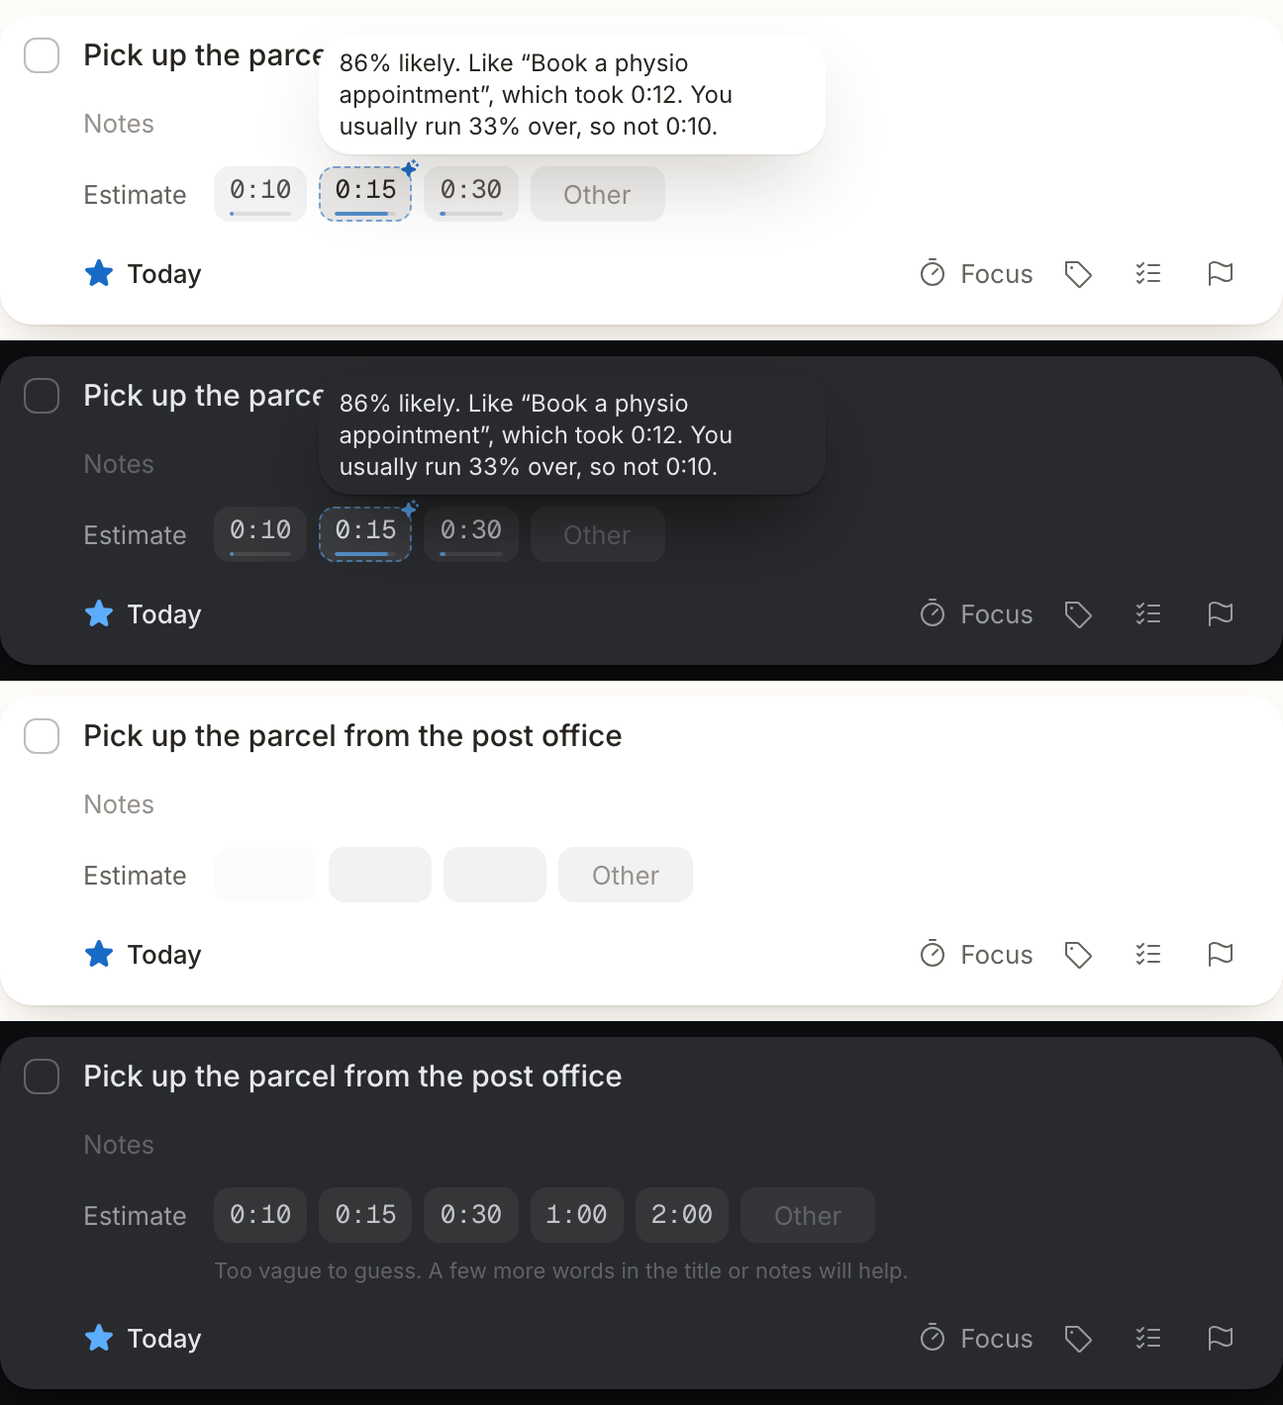
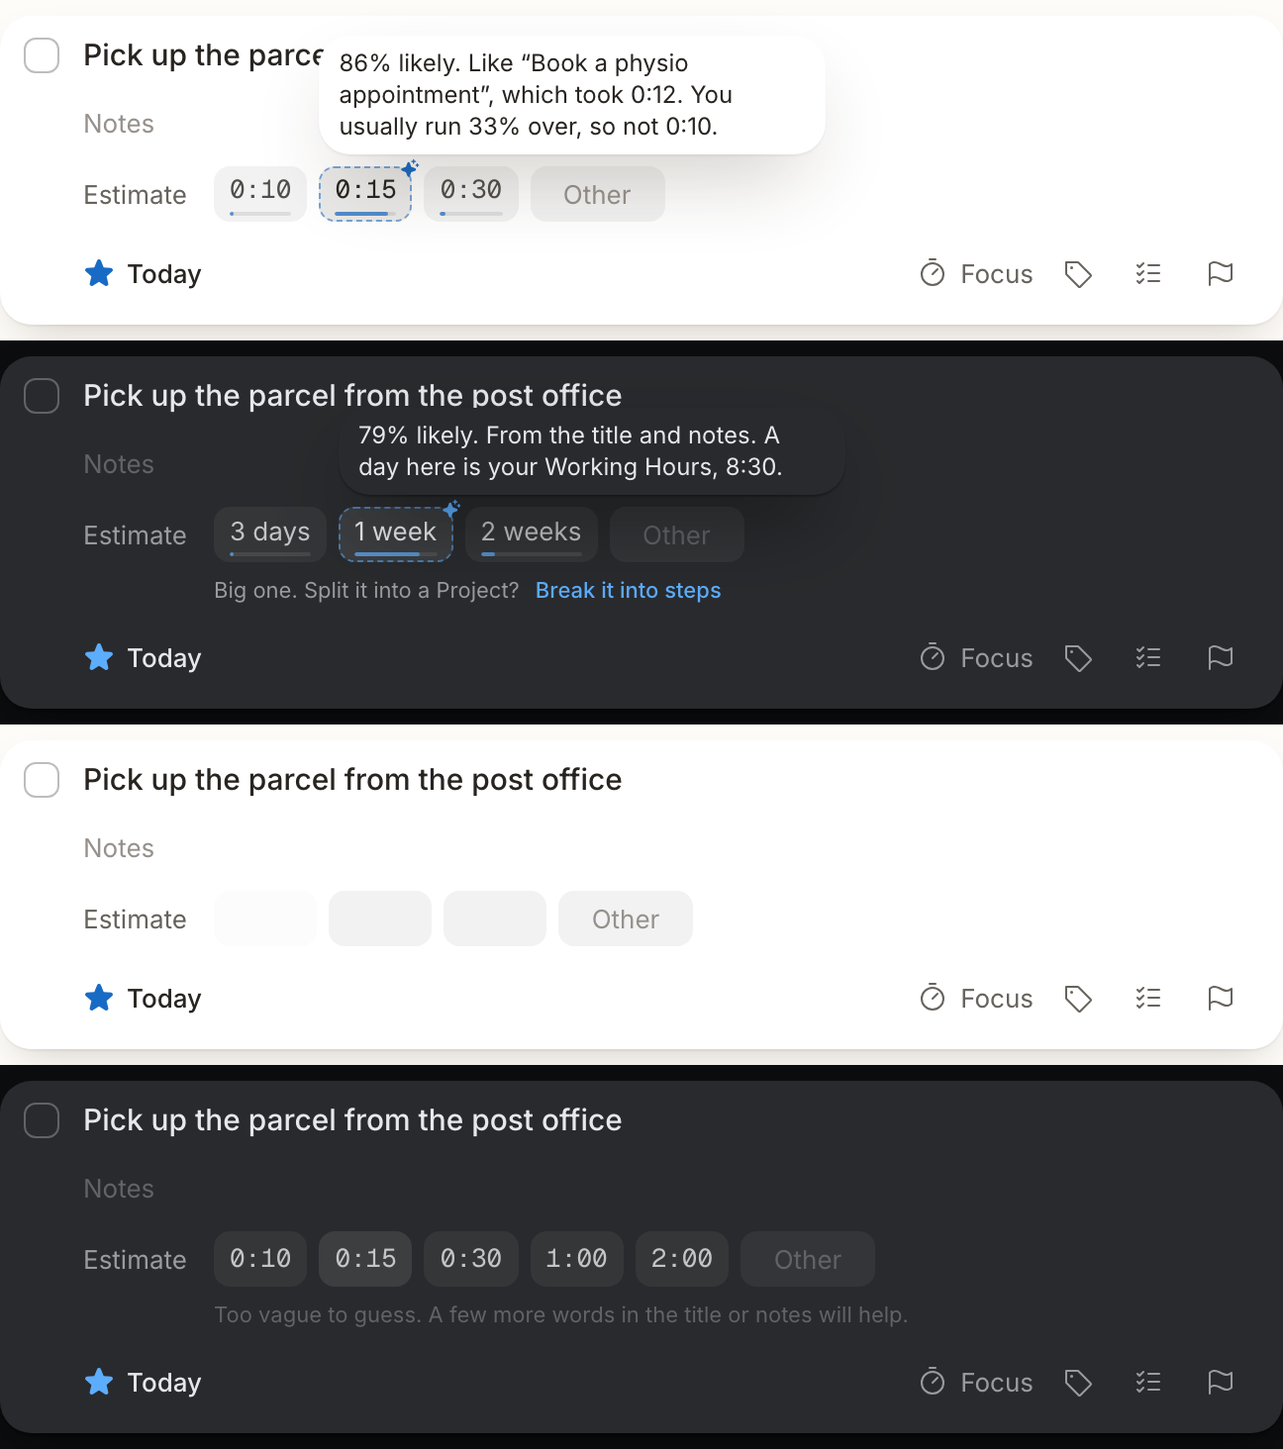
Smart Estimates: big guesses in days and weeks of Working Hours, a Break it into steps hint, vague only when unsure, and a 4 hour cap on blocks dropped from big Estimates (#48, #53)

diff --git a/apps/web/src/components/lifeos/estimate-field.tsx b/apps/web/src/components/lifeos/estimate-field.tsx
@@ -14,12 +14,20 @@ export type EstimateGuess = { minutes: number; probability: number };
 
 export type SmartEstimate =
   | { kind: "thinking" }
-  | { kind: "guesses"; guesses: readonly EstimateGuess[]; likely: number; reason: string }
+  | { kind: "guesses"; guesses: readonly EstimateGuess[]; likely: number; reason: string; dayMinutes: number }
   | { kind: "note"; note: string };
 
 const percent = new Intl.NumberFormat("en-AU", { style: "percent", maximumFractionDigits: 0 });
 
 const GHOSTS = [0, 160, 320] as const;
+
+const workingDays = (minutes: number, dayMinutes: number) =>
+  minutes >= dayMinutes && minutes % dayMinutes === 0 ? minutes / dayMinutes : undefined;
+
+const plainUnits = (days: number) => {
+  if (days % 5 === 0) return days === 5 ? "1 week" : `${days / 5} weeks`;
+  return days === 1 ? "1 day" : `${days} days`;
+};
 
 const CHIP =
   "relative h-7 rounded-md px-2 font-mono text-small transition-[background-color,color,scale,opacity] duration-(--dur-press) ease-out before:absolute before:-inset-x-0.5 before:-inset-y-2 active:scale-[0.94]";
@@ -65,11 +73,13 @@ export const EstimateField = ({
   minutes,
   smart,
   onChange,
+  onSteps,
   className,
 }: {
   minutes: number | undefined;
   smart?: SmartEstimate | undefined;
   onChange: (minutes: number | null) => void;
+  onSteps?: (() => void) | undefined;
   className?: string;
 }) => {
   const [draft, setDraft] = useState<string | null>(null);
@@ -77,6 +87,7 @@ export const EstimateField = ({
   const chips: readonly { minutes: number; probability: number | undefined }[] = chipsFor(smart);
   const custom = minutes !== undefined && !chips.some((chip) => chip.minutes === minutes);
   const guessed = smart?.kind === "guesses" ? smart : undefined;
+  const big = guessed !== undefined && guessed.likely >= guessed.dayMinutes;
 
   const commit = () => {
     if (draft === null) return;
@@ -104,12 +115,15 @@ export const EstimateField = ({
         const selected = minutes === chip;
         const likely = guessed !== undefined && guessed.likely === chip;
         const odds = probability === undefined ? undefined : percent.format(probability);
+        const days = guessed ? workingDays(chip, guessed.dayMinutes) : undefined;
+        const label = days === undefined ? formatMinutes(chip) : plainUnits(days);
+        const dayNote = days === undefined || !guessed ? "" : ` A day here is your Working Hours, ${formatMinutes(guessed.dayMinutes)}.`;
         const button = (
           <button
             key={chip}
             type="button"
             aria-pressed={selected}
-            aria-label={odds ? `${formatMinutes(chip)}, ${odds} likely${likely ? ", the best guess" : ""}` : undefined}
+            aria-label={odds ? `${label}, ${odds} likely${likely ? ", the best guess" : ""}` : undefined}
             onClick={(event) => {
               if (event.detail > 0) haptic("toggle");
               setDraft(null);
@@ -121,15 +135,16 @@ export const EstimateField = ({
               selected ? "bg-brand text-brand-foreground" : "bg-foreground/[0.06] text-foreground/80 hover:bg-foreground/[0.1]",
               probability !== undefined && GUESS,
               likely && !selected && LIKELY,
+              days !== undefined && "font-sans",
             )}
           >
-            {formatMinutes(chip)}
+            {label}
             {probability !== undefined && <Odds probability={probability} selected={selected} />}
             {likely && <Spark />}
           </button>
         );
         return guessed && odds ? (
-          <Tooltip key={chip} content={likely ? `${odds} likely. ${guessed.reason}` : `${odds} likely`} side="top" align="start">
+          <Tooltip key={chip} content={likely ? `${odds} likely. ${guessed.reason}${dayNote}` : `${odds} likely.${dayNote}`} side="top" align="start">
             {button}
           </Tooltip>
         ) : (
@@ -177,6 +192,20 @@ export const EstimateField = ({
       <span role="status" className={cn("text-micro text-negative", !refused && "sr-only")}>
         {refused ? "Try 45, 1h30 or 1:30" : ""}
       </span>
+      {big && (
+        <p className="flex basis-full items-center gap-2 text-micro text-pretty text-muted-foreground @md:pl-[4.125rem]">
+          Big one. Split it into a Project?
+          {onSteps && (
+            <button
+              type="button"
+              onClick={onSteps}
+              className="relative rounded-sm font-medium text-brand transition-[opacity] duration-(--dur-press) ease-out before:absolute before:-inset-x-1 before:-inset-y-2 hover:opacity-80"
+            >
+              Break it into steps
+            </button>
+          )}
+        </p>
+      )}
       {smart?.kind === "note" && (
         <p role="status" className="basis-full text-micro text-pretty text-faint-foreground @md:pl-[4.125rem]">
           {smart.note}

diff --git a/apps/web/src/components/app/smart-estimate.tsx b/apps/web/src/components/app/smart-estimate.tsx
@@ -27,11 +27,20 @@ const fallbackNote = (view: FailedView) => {
 const smartFor = (view: EstimateView | undefined, patient: boolean) => {
   if (!view || view.kind === "presets") return undefined;
   if (view.kind === "thinking") return patient ? ({ kind: "thinking" } satisfies SmartEstimate) : ({ kind: "note", note: "Still waiting on OpenAI. Pick one for now." } satisfies SmartEstimate);
-  if (view.kind === "guesses") return { kind: "guesses", guesses: view.guesses, likely: view.likely, reason: view.reason } satisfies SmartEstimate;
+  if (view.kind === "guesses")
+    return { kind: "guesses", guesses: view.guesses, likely: view.likely, reason: view.reason, dayMinutes: view.dayMinutes } satisfies SmartEstimate;
   return { kind: "note", note: fallbackNote(view) } satisfies SmartEstimate;
 };
 
-export const TaskEstimateField = ({ task, onChange }: { task: PlannerTask; onChange: (minutes: number | null) => void }) => {
+export const TaskEstimateField = ({
+  task,
+  onChange,
+  onSteps,
+}: {
+  task: PlannerTask;
+  onChange: (minutes: number | null) => void;
+  onSteps?: () => void;
+}) => {
   const saved = !isDraftTask(task._id);
   const unestimated = saved && task.estimateMinutes === undefined;
   const view = useQuietView(api.planner.smartEstimates.forTask, saved ? { taskId: task._id } : "skip");
@@ -52,7 +61,7 @@ export const TaskEstimateField = ({ task, onChange }: { task: PlannerTask; onCha
     const timer = setTimeout(() => setGaveUpOn(round), THINKING_PATIENCE_MS);
     return () => clearTimeout(timer);
   }, [thinking, round]);
-  return <EstimateField minutes={task.estimateMinutes} smart={smartFor(view, gaveUpOn !== round)} onChange={onChange} />;
+  return <EstimateField minutes={task.estimateMinutes} smart={smartFor(view, gaveUpOn !== round)} onChange={onChange} onSteps={onSteps} />;
 };
 
 const withSmartEstimates = (enabled: boolean) => (store: OptimisticLocalStore) => {

diff --git a/packages/backend/convex/planner/smartEstimates.test.ts b/packages/backend/convex/planner/smartEstimates.test.ts
@@ -25,13 +25,13 @@ const decisionsAnswering = (answers: Record<string, unknown>[], status = 200) =>
   return asked;
 };
 
-const choosing = (choice: string, { runnerUp = "1 hour", vague = 0.04 } = {}) =>
+const choosing = (choice: string, { runnerUp = "1 hour", vague = 0.04, confidence = 0.81 } = {}) =>
   decisionsAnswering([
     {
       type: "choice",
       name: "estimate",
       choice,
-      confidence: 0.81,
+      confidence,
       probabilities: [
         { value: choice, probability: 0.86 },
         { value: runnerUp, probability: 0.1 },
@@ -272,7 +272,7 @@ describe("guessing an Estimate", () => {
 
   test("a vague Task, a refused key or a refusal falls back to the presets with the reason", async () => {
     const t = await newBackend();
-    choosing("30 minutes", { vague: 0.92 });
+    choosing("30 minutes", { vague: 0.92, confidence: 0.4 });
     const { taskId } = unwrap(await t.mutation(api.planner.tasks.create, { title: "Stuff for later" }));
     await settle(t);
     expect(await viewFor(t, taskId)).toEqual({ kind: "fallback", why: "vague" });
@@ -293,7 +293,7 @@ describe("big work", () => {
   test("a massive Task can be guessed in days, follows the Working Hours, and the guess can be saved as the Estimate", async () => {
     const t = await newBackend();
     unwrap(await t.mutation(api.calendar.workingHours.set, { startMinute: 9 * 60, endMinute: 17 * 60 }));
-    choosing("1 working week", { runnerUp: "2 working weeks" });
+    choosing("1 working week", { runnerUp: "2 working weeks", vague: 0.92, confidence: 0.99 });
     const { taskId } = unwrap(await t.mutation(api.planner.tasks.create, { title: "Rewrite the entire db in Rust" }));
     await settle(t);
     expect(await viewFor(t, taskId)).toMatchObject({

diff --git a/packages/backend/convex/planner/smartEstimateModel.ts b/packages/backend/convex/planner/smartEstimateModel.ts
@@ -7,6 +7,9 @@ export const QUESTION_NAME = "estimate";
 export const VAGUE_QUESTION = "too_vague";
 export const PROMPT_CACHE_KEY = "lifeos-smart-estimate";
 export const VAGUE_THRESHOLD = 0.7;
+export const SURE_CONFIDENCE = 0.6;
+
+export const isTooVague = ({ vague, confidence }: { vague: number; confidence: number }) => vague >= VAGUE_THRESHOLD && confidence < SURE_CONFIDENCE;
 export const GUESS_FLOOR = 0.03;
 export const GUESS_LIMIT = 3;
 const PLACEHOLDER_TITLES = new Set(["new task", "untitled", "task", "todo", "to do", "to-do"]);
@@ -221,7 +224,7 @@ export const decisionRequest = (signal: EstimateSignal, buckets: readonly Bucket
     {
       type: "predicate",
       name: VAGUE_QUESTION,
-      instructions: "Is this Task too vague to estimate, such as a bare word or a placeholder with no clear piece of work?",
+      instructions: "Is this Task too unclear to estimate, because you cannot tell what work it means, such as a placeholder or a bare word like stuff or misc? A big or open-ended piece of work is not unclear when you can tell what it is.",
     },
   ],
 });

diff --git a/packages/backend/convex/planner/plan.test.ts b/packages/backend/convex/planner/plan.test.ts
@@ -4,7 +4,7 @@ import type { Id } from "../_generated/dataModel";
 import { newBackend, registerWorker, unwrap, type Backend } from "../backend.test-utils";
 import { zonedMoment } from "../calendar/model";
 import type { IsoDate } from "../../shared/date";
-import { byDayPlan, dayLoad, placeInDay } from "../../shared/plan";
+import { blockMinutesFor, byDayPlan, dayLoad, placeInDay } from "../../shared/plan";
 
 const SYDNEY = "Australia/Sydney";
 const thursday = "2026-11-19" as IsoDate;
@@ -339,4 +339,8 @@ test("a Goal must be whole minutes within one day, on a real date", async () => 
   });
   unwrap(await t.mutation(api.planner.plan.setGoal, { date: thursday, minutes: 0 }));
   expect((await week(t)).days[0]).toMatchObject({ goalMinutes: 0, goalSet: true });
+});
+
+test("a dropped Task gets a block from its Estimate in 15 minute steps, and a multi-day Estimate gets one 4 hour session", () => {
+  expect([undefined, 5, 50, 90, 2550].map(blockMinutesFor)).toEqual([30, 15, 45, 90, 240]);
 });

diff --git a/packages/backend/convex/planner/smartEstimates.ts b/packages/backend/convex/planner/smartEstimates.ts
@@ -15,6 +15,7 @@ import {
   bucketsFor,
   guessesFrom,
   isPlaceholderTitle,
+  isTooVague,
   DECISIONS_MODEL,
   DECISIONS_URL,
   decisionRequest,
@@ -22,7 +23,6 @@ import {
   parseDecision,
   reasonFor,
   trimNotes,
-  VAGUE_THRESHOLD,
   type Bucket,
   type Calibration,
   type Decision,
@@ -298,7 +298,7 @@ export const suggest = internalAction({
     const at = Date.now();
     const outcome: SuggestionOutcome = result.match(
       ({ pick, confidence, probabilities, vague, model }) => {
-        if (vague >= VAGUE_THRESHOLD) return { kind: "unclear" as const, vague, inputsHash, at };
+        if (isTooVague({ vague, confidence })) return { kind: "unclear" as const, vague, inputsHash, at };
         const { guesses, likely: minutes } = guessesFrom(buckets, { pick, confidence, probabilities }, calibration ?? undefined);
         return {
           kind: "suggested" as const,

diff --git a/packages/backend/shared/plan.ts b/packages/backend/shared/plan.ts
@@ -6,6 +6,7 @@ type Planned = { readonly _id: string; readonly plan?: DayPlanMark | undefined }
 
 export const DEFAULT_BLOCK_MINUTES = 30;
 export const BLOCK_STEP_MINUTES = 15;
+export const MAX_DROPPED_BLOCK_MINUTES = 4 * 60;
 
 export const planOrder = (task: Planned, date: string) => (task.plan?.date === date ? task.plan.order : undefined);
 
@@ -77,4 +78,4 @@ export const goalMinutesOf = (freeMinutes: number, goalMinutes: number | undefin
 export const blockMinutesFor = (estimateMinutes: number | undefined) =>
   estimateMinutes === undefined
     ? DEFAULT_BLOCK_MINUTES
-    : Math.max(BLOCK_STEP_MINUTES, Math.round(estimateMinutes / BLOCK_STEP_MINUTES) * BLOCK_STEP_MINUTES);
+    : Math.min(MAX_DROPPED_BLOCK_MINUTES, Math.max(BLOCK_STEP_MINUTES, Math.round(estimateMinutes / BLOCK_STEP_MINUTES) * BLOCK_STEP_MINUTES));

diff --git a/apps/web/src/components/app/task-card-body.tsx b/apps/web/src/components/app/task-card-body.tsx
@@ -180,7 +180,7 @@ export const TaskCardBody = ({ task, today }: { task: PlannerTask; today: string
           })}
         />
       )}
-      <TaskEstimateField task={task} onChange={(minutes) => void actions.setEstimate(minutes)} />
+      <TaskEstimateField task={task} onChange={(minutes) => void actions.setEstimate(minutes)} onSteps={() => setComposing(true)} />
       <FocusSection task={task} today={today} />
       <div className="-ml-1.5 flex flex-wrap items-center gap-x-1.5 gap-y-1.5">
         <WhenPicker when={task.when} label={whenLabel(task.when, today)} today={today} onChange={actions.setWhen} />

diff --git a/apps/web/scripts/check-smart-estimate.py b/apps/web/scripts/check-smart-estimate.py
@@ -106,13 +106,28 @@ def main():
         page.wait_for_timeout(600)
         expect("undo clears it again", best.get_attribute("aria-pressed"), "false")
 
+        suggest(guesses=[{"minutes": 1530, "probability": 0.05}, {"minutes": 2550, "probability": 0.79}, {"minutes": 5100, "probability": 0.15}], reason="From the title and notes.")
+        week = group.get_by_role("button", name="1 week, 79% likely, the best guess")
+        week.wait_for()
+        expect("big guesses read in days and weeks", chip_labels()[:3], ["3 days, 5% likely", "1 week, 79% likely, the best guess", "2 weeks, 15% likely"])
+        week.hover()
+        expect(
+            "the hover says what a day means",
+            page.get_by_role("tooltip").filter(has_text="Working Hours").inner_text(),
+            "79% likely. From the title and notes. A day here is your Working Hours, 8:30.",
+        )
+        expect("a big guess suggests splitting it", group.get_by_text("Big one. Split it into a Project?").count(), 1)
+        shot("big")
+
         suggest(state="vague")
         group.get_by_text("Too vague to guess").wait_for()
         expect("a vague Task falls back to the presets", chip_labels(), ["0:10", "0:15", "0:30", "1:00", "2:00"])
         shot("vague")
 
-        suggest(guesses=GUESSES, reason=REASON)
-        best.wait_for()
+        suggest(guesses=[{"minutes": 2550, "probability": 0.79}, {"minutes": 5100, "probability": 0.15}], reason="From the title and notes.")
+        group.get_by_role("button", name="Break it into steps").click()
+        page.wait_for_timeout(400)
+        expect("breaking it into steps opens the Checklist", page.evaluate("document.activeElement?.closest('[data-open-card]') !== null && document.activeElement?.tagName"), "INPUT")
         page.keyboard.press("Escape")
         page.keyboard.press("ControlOrMeta+k")
         page.wait_for_selector("[cmdk-root]")

diff --git a/docs/data-model.md b/docs/data-model.md
@@ -131,7 +131,7 @@ No indexes: the guard reads the row by the id the session holds.
 | `title`, `notes` | string | LifeOS |
 | `when` | `inbox`, `anytime`, `someday`, or `scheduled { date, evening }` | LifeOS |
 | `deadline` | Optional local date | LifeOS |
-| `estimateMinutes` | Optional, 1 to 1440 | LifeOS |
+| `estimateMinutes` | Optional, 1 to 12,000 (200 hours, so a Task can be estimated in working days or weeks). Dropping it on the Timebox makes one block of at most 4 hours | LifeOS |
 | `parent` | `loose`, `area { areaId }` or `project { projectId, headingId? }` | LifeOS |
 | `labelIds` | `Id<"labels">[]` | LifeOS |
 | `status` | `open`, `completed { at }` or `canceled { at }` | LifeOS |
@@ -221,9 +221,9 @@ Index: `by_task` (the card's query and every request).
 
 - **Asking.** A placeholder title (New Task, Untitled, To do, or one with no word of three letters or more) is never sent. `tasks:create` and a real `tasks:rename` call `requestSuggestion`, and so does opening the card of a Task with no row yet (`planner/smartEstimates:request`, an `ownerMutation` because it changes none of Avi's data). Nothing happens when the Task already has an Estimate, is closed or trashed, Smart Estimates is off, or there is no OpenAI key (neither a saved one in `secrets` nor `OPENAI_API_KEY`). Otherwise it bumps `requestedAt` and schedules `suggest` two seconds later, so a burst of edits makes one call.
 - **The signal.** `planFor` builds the title, notes (whitespace collapsed, cut at 600 characters), Checklist size, Area, Project and Label names, and up to 6 nearest past Tasks. Past Tasks are the last 300 closed Tasks plus any Task in the last 600 Focus Sessions. They rank by shared title words, then same Project, same Area and shared Labels. Each example sends only its title, Area, Project, Labels, Estimate and Actual Time. Other Tasks' notes and every id stay home.
-- **The call.** `POST https://api.openai.com/v1/decisions` with `gpt-6-luna`: one `choice` question (`estimate`) and one `predicate` (`too_vague`). The choices are twelve buckets with readable values (`5 minutes`, `10 minutes`, `15 minutes`, `20 minutes`, `30 minutes`, `45 minutes`, `1 hour`, `1.5 hours`, `2 hours`, `3 hours`, `4 hours`, `6 hours`), each with a description of the kind of work that fits it, because the model reads both. The fixed instructions come first in a developer message. The user message holds the Task as plain text (`Task:`, `Description:` from the notes, `Checklist:`, `Area:`, `Project:`, `Labels:`) and then the similar past Tasks as `input_json`. The title and notes are prose, so they go in as prose. The history is a list of records, which is what `input_json` is for. The request carries `prompt_cache_key`, but the prefix is under the 1,024 tokens caching needs, so every call is billed in full (about 300 to 900 input tokens, a fraction of a cent).
-- **The answer.** A `too_vague` probability of 0.7 or more stores `unclear`. Otherwise the pick is nudged by Avi's run ratio: the median of Actual Time over Estimate across the examples (2 or more pairs), or else across all history (3 or more). A ratio outside 0.85 to 1.15 moves every option to the bucket nearest `minutes × ratio`, adding together options that land in the same bucket. The guesses are the three most likely buckets at 3% or more. The reason is written in LifeOS, not by the model: the closest example and, when it applies, the over-run.
-- **Showing it.** `planner/smartEstimates:forTask` returns what the card's Estimate row draws: `presets` (Smart Estimates off, no key, or an Estimate set before any guess), `thinking` (three ghost chips), `guesses { guesses, likely, reason }` (these replace the preset chips, and stay after Avi picks one), or `fallback { why }` for a placeholder title, a vague Task or a failed call, which shows the presets with a quiet line saying why. The card gives up on thinking after 15 seconds and shows the presets.
+- **The call.** `POST https://api.openai.com/v1/decisions` with `gpt-6-luna`: one `choice` question (`estimate`) and one `predicate` (`too_vague`). The choices are seventeen buckets with readable values, each with a description of the kind of work that fits it, because the model reads both: `5 minutes` to `6 hours`, then `1 working day`, `2 working days`, `3 working days`, `1 working week` and `2 working weeks`. A working day is Avi's Working Hours (8.5 hours by default), so those buckets are stored as that many minutes. One long list beat a two-step ask (a coarse size, then the bucket inside it) in a live trial on 19 November 2026: they agreed on most titles, but the coarse step read "Plan a two-week Japan trip" as a day of work, and it costs two calls. `planner/smartEstimateTrial:compare` reruns that trial on any titles (`npx convex run`, nothing is stored). The fixed instructions come first in a developer message. The user message holds the Task as plain text (`Task:`, `Description:` from the notes, `Checklist:`, `Area:`, `Project:`, `Labels:`) and then the similar past Tasks as `input_json`. The title and notes are prose, so they go in as prose. The history is a list of records, which is what `input_json` is for. The request carries `prompt_cache_key`, but the prefix is under the 1,024 tokens caching needs, so every call is billed in full (about 300 to 900 input tokens, a fraction of a cent).
+- **The answer.** A `too_vague` probability of 0.7 or more stores `unclear`, but only while the model is under 0.6 sure of the size. The model marks big, clear work (a rewrite, an app) as vague too, so a confident size wins. Otherwise the pick is nudged by Avi's run ratio: the median of Actual Time over Estimate across the examples (2 or more pairs), or else across all history (3 or more). A ratio outside 0.85 to 1.15 moves every option to the bucket nearest `minutes × ratio`, adding together options that land in the same bucket. The guesses are the three most likely buckets at 3% or more. The reason is written in LifeOS, not by the model: the closest example and, when it applies, the over-run.
+- **Showing it.** `planner/smartEstimates:forTask` returns what the card's Estimate row draws: `presets` (Smart Estimates off, no key, or an Estimate set before any guess), `thinking` (three ghost chips), `guesses { guesses, likely, reason }` (these replace the preset chips, and stay after Avi picks one), or `fallback { why }` for a placeholder title, a vague Task or a failed call, which shows the presets with a quiet line saying why. The card gives up on thinking after 15 seconds and shows the presets. Guesses of a working day or more read as days and weeks ("3 days", "1 week"), and when the best guess is that big the row adds "Big one. Split it into a Project?" with a button that opens the Checklist composer.
 - **Once per change.** `inputsHash` is the SHA-256 of the model name, the signal and the ratio. A run whose hash matches the stored `suggested` or `unclear` outcome makes no call. A failure is retried on the next real change.
 - `planner/smartEstimates:status` says whether the preference is on and whether a key is available from either source.
 
